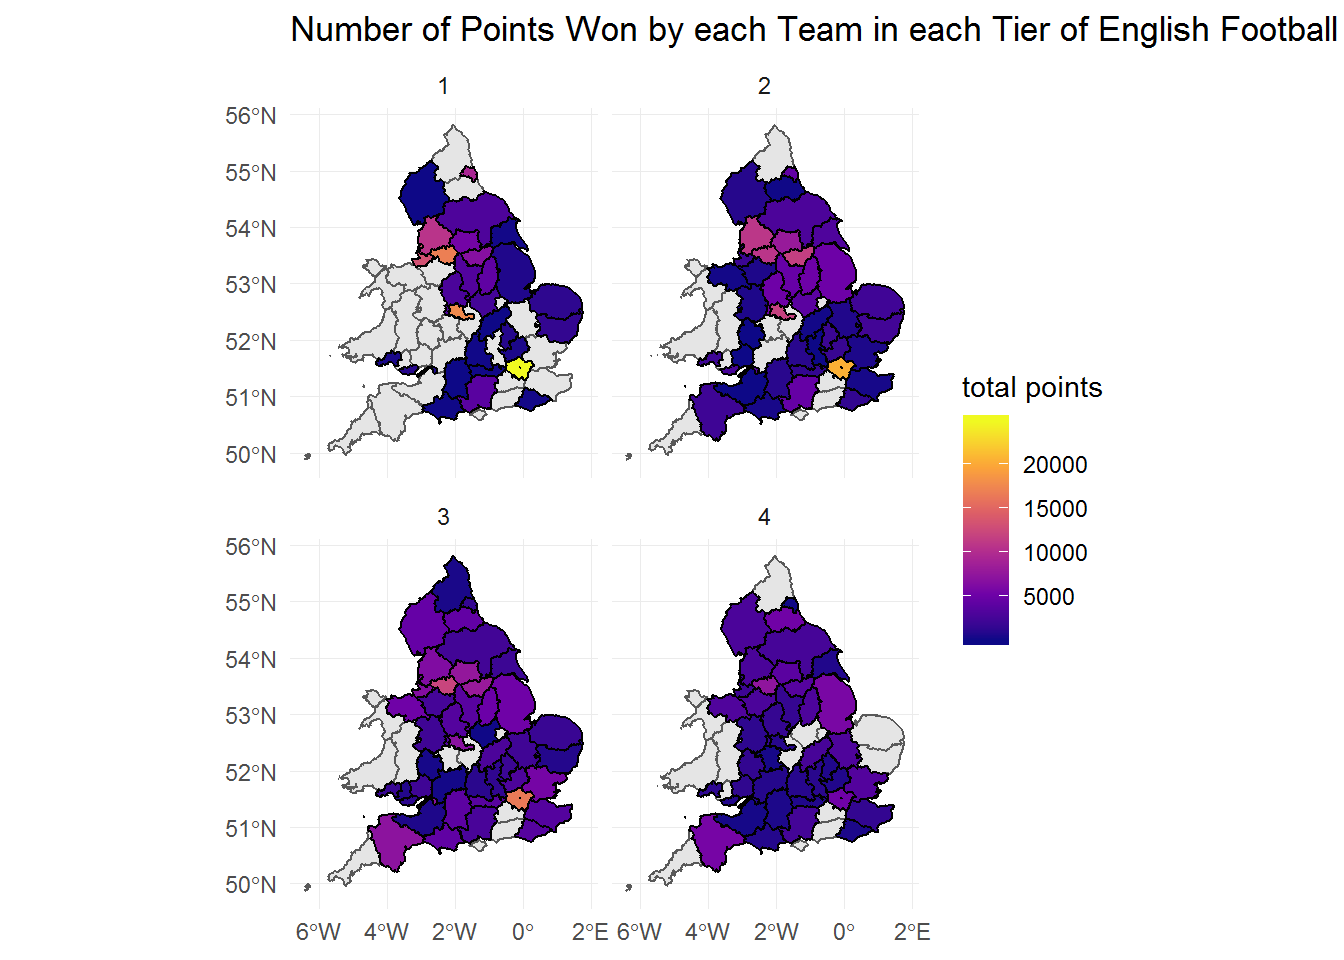
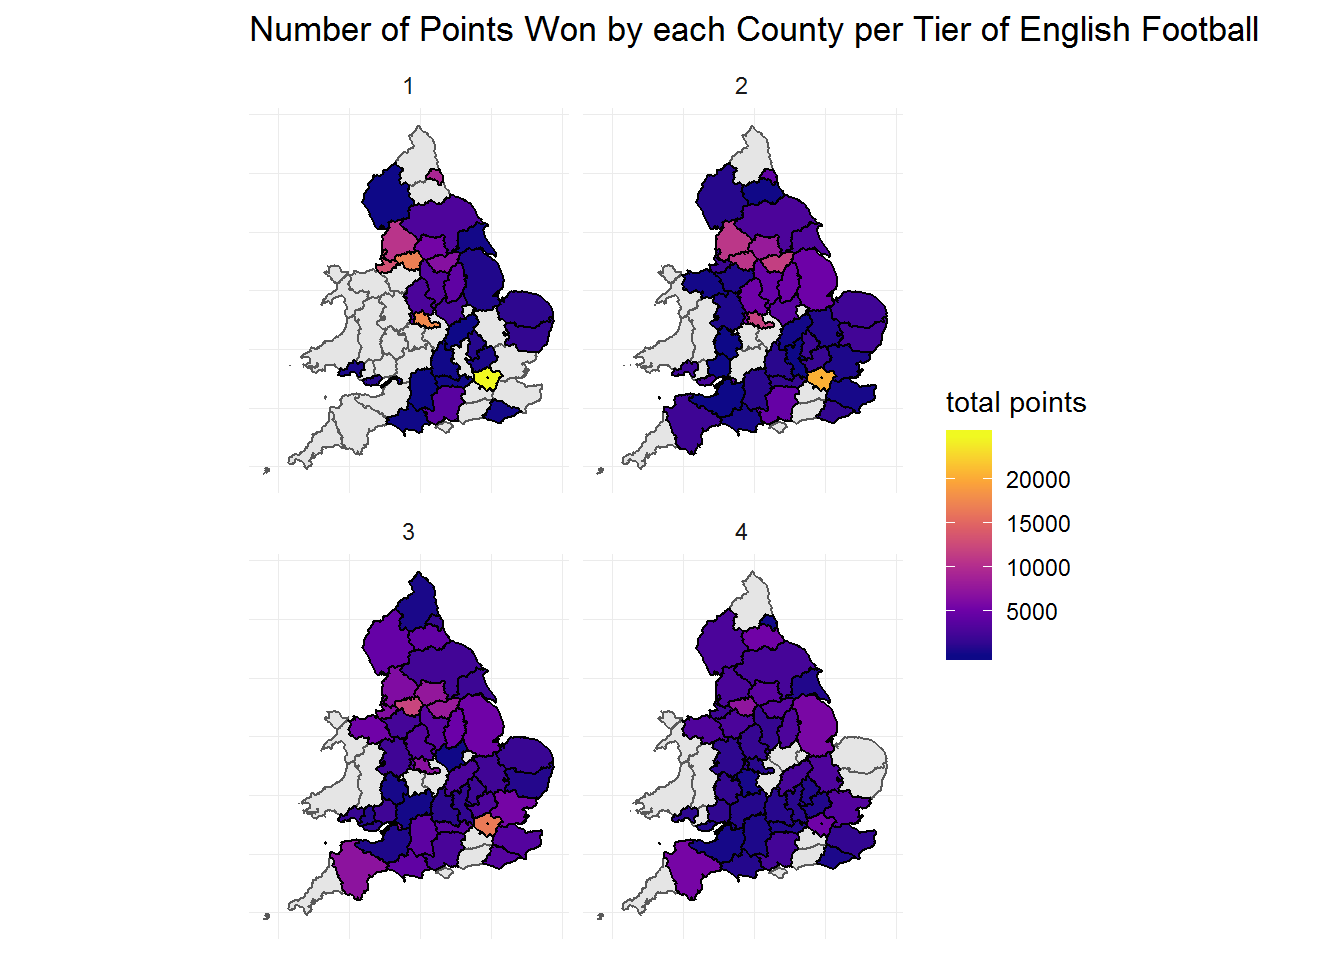
touching up 2nd knowledge blog post

diff --git a/content/post/2019-01-21-The_Knowledge_2.html b/content/post/2019-01-21-The_Knowledge_2.html
@@ -189,14 +189,17 @@ counties &lt;- readOGR(dsn = &quot;path/to/file&quot;,
   st_transform(., crs = st_crs(&quot;+init=epsg:4326&quot;))
 
 engwal &lt;- counties %&gt;%
-  .[c(1:54, 88, 90),]
-
-#make a quick plot of counties and teams
+  .[c(1:54, 88, 90),]</code></pre>
+<pre class="r"><code>#make a quick plot of counties and teams
 ggplot() +
   geom_sf(data = counties, fill = NA) +
   geom_sf(data = all_locations) +
-  ggtitle(&quot;Location of All Teams to have Played in Top 4 English Football Divisions&quot;) +
-  theme_minimal()</code></pre>
+  ggtitle(&quot;Location of All Teams to have Played Top 4 English Football Divisions&quot;) +
+  theme_minimal() +
+  theme(axis.title=element_blank(),
+        axis.text=element_blank(),
+        axis.ticks=element_blank())</code></pre>
+<p><img src="/post/2019-01-21-The_Knowledge_2_files/figure-html/plot_team_locations-1.png" width="672" /></p>
 <p>(by the way the artifacts around Bristol and the Wirral are from the OS dataset- it’s very annoying)</p>
 <p>Then we need to determine which teams are within which counties. The easiest way to do this is to use a spatial join of the team names in all_locations by which county they fall into (using st_contains from the sf package)</p>
 <pre class="r"><code>#bind the team names to each county
@@ -215,7 +218,10 @@ counties %&gt;%
   geom_sf(aes(fill = n_clubs), colour = &quot;black&quot;) +
   scale_fill_viridis_c(option = &quot;plasma&quot;, name = &quot;# clubs&quot;) +
   ggtitle(&quot;Number of Top 4 Division Playing Teams in each Ceremonial County&quot;) +
-  theme_minimal()</code></pre>
+  theme_minimal() +
+  theme(axis.title=element_blank(),
+        axis.text=element_blank(),
+        axis.ticks=element_blank())</code></pre>
 <p><img src="/post/2019-01-21-The_Knowledge_2_files/figure-html/unnamed-chunk-1-1.png" width="672" /></p>
 <p>Which shows that most English historic counties (and a few Welsh ones due to teams like Cardiff City/ Swansea City etc.) have at least 1 team that has competed in the top 4 flights of English football at some point (those that do not are: Isle of Wight, Rutland, Surrey, Warwickshire, West Sussex and Cornwall).</p>
 <p>To finally get the total number of points won by these teams, the county data needs to be joined back onto the match data from the top. First I clean it up a bit then make the left_join by team name. Finally the number of points per match is calculated using case_when and points are grouped by county and summed</p>
@@ -267,9 +273,12 @@ county_points &lt;- county_match_data %&gt;%
   geom_sf(data = engwal) +
   geom_sf(aes(fill = total_points), colour = &quot;black&quot;) +
   scale_fill_viridis_c(option = &quot;plasma&quot;, name = &quot;total points&quot;) +
-  ggtitle(&quot;Number of Points Won by each Team in each Tier of English Football by Ceremonial County&quot;) +
+  ggtitle(&quot;Number of Points Won by each County per Tier of English Football&quot;) +
   facet_wrap(~tier) +
-  theme_minimal()</code></pre>
+  theme_minimal() +
+  theme(axis.title=element_blank(),
+        axis.text=element_blank(),
+        axis.ticks=element_blank())</code></pre>
 <p><img src="/post/2019-01-21-The_Knowledge_2_files/figure-html/unnamed-chunk-2-1.png" width="672" /></p>
 <p>And for the Premier League era this clears up to</p>
 <pre class="r"><code>county_match_data %&gt;%
@@ -283,10 +292,13 @@ county_points &lt;- county_match_data %&gt;%
   geom_sf(data = engwal) +
   geom_sf(aes(fill = total_points), colour = &quot;black&quot;, name = &quot;total points&quot;) +
   scale_fill_viridis_c(option = &quot;plasma&quot;) +
-  ggtitle(&quot;Number of Points Won by each Team in each Tier of English Football by Ceremonial County&quot;,
+  ggtitle(&quot;Number of Points Won by each County per Tier of English Football&quot;,
           subtitle = &quot;From Begining of 1992/1993 Season&quot;) +
   facet_wrap(~tier) +
-  theme_minimal()</code></pre>
+  theme_minimal() +
+  theme(axis.title=element_blank(),
+        axis.text=element_blank(),
+        axis.ticks=element_blank())</code></pre>
 <pre><code>## Warning: Ignoring unknown parameters: name</code></pre>
 <p><img src="/post/2019-01-21-The_Knowledge_2_files/figure-html/unnamed-chunk-3-1.png" width="672" /></p>
 <p>Which shows just how dominant London has been in the top division of English football (especially as it is only competitive at lower levels).</p>

diff --git a/public/post/counties_league_points/index.html b/public/post/counties_league_points/index.html
@@ -499,14 +499,17 @@ counties &lt;- readOGR(dsn = &quot;path/to/file&quot;,
   st_transform(., crs = st_crs(&quot;+init=epsg:4326&quot;))
 
 engwal &lt;- counties %&gt;%
-  .[c(1:54, 88, 90),]
-
-#make a quick plot of counties and teams
+  .[c(1:54, 88, 90),]</code></pre>
+<pre class="r"><code>#make a quick plot of counties and teams
 ggplot() +
   geom_sf(data = counties, fill = NA) +
   geom_sf(data = all_locations) +
-  ggtitle(&quot;Location of All Teams to have Played in Top 4 English Football Divisions&quot;) +
-  theme_minimal()</code></pre>
+  ggtitle(&quot;Location of All Teams to have Played Top 4 English Football Divisions&quot;) +
+  theme_minimal() +
+  theme(axis.title=element_blank(),
+        axis.text=element_blank(),
+        axis.ticks=element_blank())</code></pre>
+<p><img src="/post/2019-01-21-The_Knowledge_2_files/figure-html/plot_team_locations-1.png" width="672" /></p>
 <p>(by the way the artifacts around Bristol and the Wirral are from the OS dataset- it’s very annoying)</p>
 <p>Then we need to determine which teams are within which counties. The easiest way to do this is to use a spatial join of the team names in all_locations by which county they fall into (using st_contains from the sf package)</p>
 <pre class="r"><code>#bind the team names to each county
@@ -525,7 +528,10 @@ counties %&gt;%
   geom_sf(aes(fill = n_clubs), colour = &quot;black&quot;) +
   scale_fill_viridis_c(option = &quot;plasma&quot;, name = &quot;# clubs&quot;) +
   ggtitle(&quot;Number of Top 4 Division Playing Teams in each Ceremonial County&quot;) +
-  theme_minimal()</code></pre>
+  theme_minimal() +
+  theme(axis.title=element_blank(),
+        axis.text=element_blank(),
+        axis.ticks=element_blank())</code></pre>
 <p><img src="/post/2019-01-21-The_Knowledge_2_files/figure-html/unnamed-chunk-1-1.png" width="672" /></p>
 <p>Which shows that most English historic counties (and a few Welsh ones due to teams like Cardiff City/ Swansea City etc.) have at least 1 team that has competed in the top 4 flights of English football at some point (those that do not are: Isle of Wight, Rutland, Surrey, Warwickshire, West Sussex and Cornwall).</p>
 <p>To finally get the total number of points won by these teams, the county data needs to be joined back onto the match data from the top. First I clean it up a bit then make the left_join by team name. Finally the number of points per match is calculated using case_when and points are grouped by county and summed</p>
@@ -577,9 +583,12 @@ county_points &lt;- county_match_data %&gt;%
   geom_sf(data = engwal) +
   geom_sf(aes(fill = total_points), colour = &quot;black&quot;) +
   scale_fill_viridis_c(option = &quot;plasma&quot;, name = &quot;total points&quot;) +
-  ggtitle(&quot;Number of Points Won by each Team in each Tier of English Football by Ceremonial County&quot;) +
+  ggtitle(&quot;Number of Points Won by each County per Tier of English Football&quot;) +
   facet_wrap(~tier) +
-  theme_minimal()</code></pre>
+  theme_minimal() +
+  theme(axis.title=element_blank(),
+        axis.text=element_blank(),
+        axis.ticks=element_blank())</code></pre>
 <p><img src="/post/2019-01-21-The_Knowledge_2_files/figure-html/unnamed-chunk-2-1.png" width="672" /></p>
 <p>And for the Premier League era this clears up to</p>
 <pre class="r"><code>county_match_data %&gt;%
@@ -593,10 +602,13 @@ county_points &lt;- county_match_data %&gt;%
   geom_sf(data = engwal) +
   geom_sf(aes(fill = total_points), colour = &quot;black&quot;, name = &quot;total points&quot;) +
   scale_fill_viridis_c(option = &quot;plasma&quot;) +
-  ggtitle(&quot;Number of Points Won by each Team in each Tier of English Football by Ceremonial County&quot;,
+  ggtitle(&quot;Number of Points Won by each County per Tier of English Football&quot;,
           subtitle = &quot;From Begining of 1992/1993 Season&quot;) +
   facet_wrap(~tier) +
-  theme_minimal()</code></pre>
+  theme_minimal() +
+  theme(axis.title=element_blank(),
+        axis.text=element_blank(),
+        axis.ticks=element_blank())</code></pre>
 <pre><code>## Warning: Ignoring unknown parameters: name</code></pre>
 <p><img src="/post/2019-01-21-The_Knowledge_2_files/figure-html/unnamed-chunk-3-1.png" width="672" /></p>
 <p>Which shows just how dominant London has been in the top division of English football (especially as it is only competitive at lower levels).</p>
